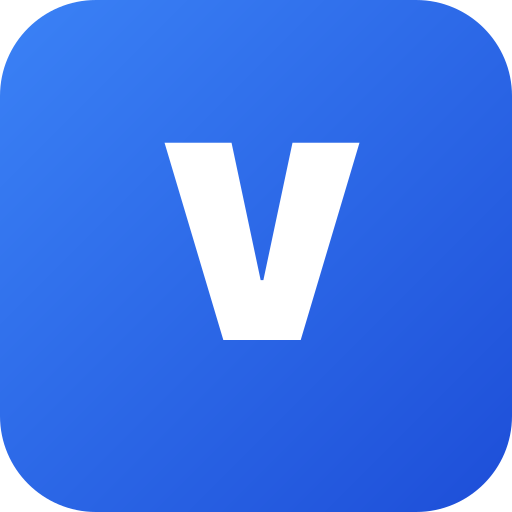
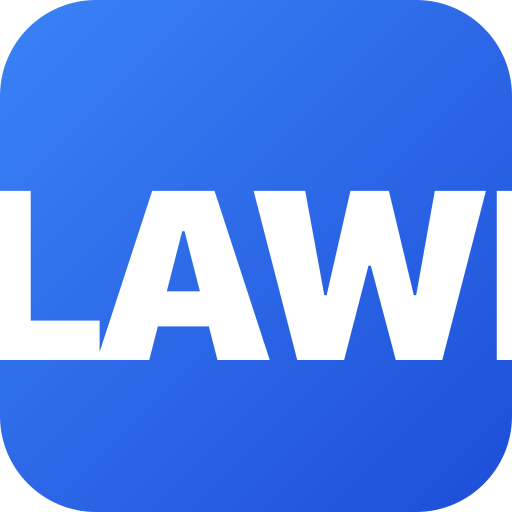
Rebrand to LAWI
- App name, manifest, meta tags updated to LAWI
- Icons regenerated with LAWI text
- Login page, sidebar, offline page rebranded

Changed region(s): [[0.0, 0.25, 1.0, 0.7188]]

diff --git a/apps/web/public/offline.html b/apps/web/public/offline.html
@@ -3,7 +3,7 @@
 <head>
   <meta charset="UTF-8">
   <meta name="viewport" content="width=device-width, initial-scale=1">
-  <title>Offline — Virtual Office OS</title>
+  <title>Offline — LAWI</title>
   <link rel="manifest" href="/manifest.json">
   <link rel="apple-touch-icon" href="/apple-touch-icon.png">
   <style>
@@ -27,17 +27,18 @@
       box-shadow: 0 10px 30px rgba(0,0,0,0.08);
     }
     .icon {
-      width: 64px;
-      height: 64px;
+      width: 80px;
+      height: 80px;
       background: linear-gradient(135deg, #3b82f6, #1d4ed8);
-      border-radius: 16px;
+      border-radius: 18px;
       margin: 0 auto 1.5rem;
       display: flex;
       align-items: center;
       justify-content: center;
       color: white;
-      font-size: 2rem;
+      font-size: 1.25rem;
       font-weight: 800;
+      letter-spacing: -0.5px;
     }
     h1 { font-size: 1.5rem; margin-bottom: 0.5rem; }
     p { color: #6b7280; font-size: 0.95rem; line-height: 1.6; margin-bottom: 1.5rem; }
@@ -56,7 +57,7 @@
 </head>
 <body>
   <div class="card">
-    <div class="icon">V</div>
+    <div class="icon">LAWI</div>
     <h1>You're offline</h1>
     <p>Virtual Office OS needs an internet connection. Check your network and try again.</p>
     <button onclick="location.reload()">Try again</button>

diff --git a/apps/web/app/layout.tsx b/apps/web/app/layout.tsx
@@ -3,14 +3,14 @@ import Script from 'next/script';
 import './globals.css';
 
 export const metadata: Metadata = {
-  title: 'Virtual Office OS',
+  title: 'LAWI',
   description: 'Digital headquarters platform — manage tasks, meetings, documents, approvals, and AI in one place',
-  applicationName: 'Virtual Office OS',
+  applicationName: 'LAWI',
   manifest: '/manifest.json',
   appleWebApp: {
     capable: true,
     statusBarStyle: 'default',
-    title: 'VOS',
+    title: 'LAWI',
   },
   formatDetection: {
     telephone: false,
@@ -44,7 +44,7 @@ export default function RootLayout({
       <head>
         <meta name="apple-mobile-web-app-capable" content="yes" />
         <meta name="apple-mobile-web-app-status-bar-style" content="default" />
-        <meta name="apple-mobile-web-app-title" content="VOS" />
+        <meta name="apple-mobile-web-app-title" content="LAWI" />
         <meta name="mobile-web-app-capable" content="yes" />
         <link rel="apple-touch-icon" href="/apple-touch-icon.png" />
         <link rel="manifest" href="/manifest.json" />

diff --git a/apps/web/app/auth/login/page.tsx b/apps/web/app/auth/login/page.tsx
@@ -88,10 +88,10 @@ export default function LoginPage() {
       <div className="w-full max-w-md">
         <div className="bg-white rounded-xl shadow-lg p-8">
           <div className="text-center mb-8">
-            <div className="w-12 h-12 bg-brand-600 text-white rounded-xl flex items-center justify-center text-xl font-bold mx-auto mb-4">
-              V
+            <div className="w-14 h-14 bg-brand-600 text-white rounded-xl flex items-center justify-center text-base font-bold mx-auto mb-4 tracking-tight">
+              LAWI
             </div>
-            <h1 className="text-2xl font-bold text-gray-900">Virtual Office OS</h1>
+            <h1 className="text-2xl font-bold text-gray-900">LAWI</h1>
             <p className="text-gray-500 mt-2">Sign in to your workspace</p>
           </div>
 

diff --git a/apps/web/components/layout/sidebar.tsx b/apps/web/components/layout/sidebar.tsx
@@ -51,7 +51,7 @@ export default function Sidebar() {
     >
       <div className="p-4 border-b border-gray-200 flex items-center justify-between">
         {!collapsed && (
-          <span className="font-bold text-brand-700 text-sm">VOS</span>
+          <span className="font-bold text-brand-700 text-sm">LAWI</span>
         )}
         <button
           onClick={() => setCollapsed(!collapsed)}
